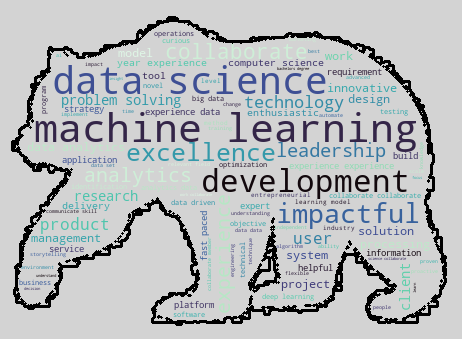
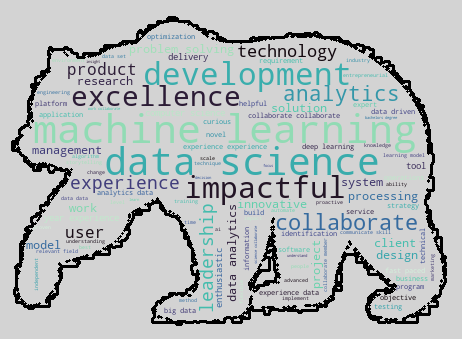
parsed subtopics down to mxnet

Changed region(s): [[0.0303, 0.0885, 0.9394, 0.944]]

diff --git a/nlp_main.py b/nlp_main.py
@@ -4077,17 +4077,18 @@ def nlp_skill_lists(additional_stopwords):
                         'bitbucket', 'cad', 'cassandra', 'centos', 'cli', 'cloudera', 'cognos', 'cosmos', 'cplex', 'cuda',
                         'd3js', 'databricks', 'datarobot', 'dataminr', 'delfi', 'docker', 'domo', 'excel', 'fastapi',
                         'fivetran', 'flume', 'fortify', 'git', 'ide', 'ivr', 'jenkins', 'jira', 'jquery', 'jupyter',
-                        'knime', 'kubeflow', 'kubernetes', 'linux', 'looker', 'kibana', 'mathematica', 'matlab', 'mlflow',]
+                        'knime', 'kubeflow', 'kubernetes', 'linux', 'looker', 'kibana', 'mathematica', 'matlab', 'mlflow',
+                        'mongodb',]
     
-    subtopic_math_models = ['algebra', 'linear algebra', 'anova', 'algorithm', 'bandit', 'arima', 'bayes', 'calculus',
-                            'carlo', 'classifiction', 'clustering', 'correlation', 'crf', 'differential', 'dsp',
+    subtopic_math_models = ['algebra', 'linear algebra', 'anova', 'algorithm', 'multiarmed', 'bandit', 'arima', 'bayes', 'calculus',
+                            'monte', 'carlo', 'classifiction', 'clustering', 'correlation', 'crf', 'differential', 'dsp',
                             'ensemble', 'forest', 'gaussian', 'gbm', 'gradient', 'identification', 'imputation',
                             'inference', 'inferential', 'kmeans', 'knn', 'likelihood', 'linear', 'localization',
-                            'logic', 'logistic', 'loss', 'markov', 'mathematics', 'matrix', 'maximum',] # will need to figure out monograms/bigrams
+                            'logic', 'logistic', 'loss', 'markov', 'mathematics', 'matrix', 'maximum', 'multivariate',] # will need to figure out monograms/bigrams
     
     subtopic_nlp = ['asr', 'spacy', 'gensim', 'nltk', 'nlp', 'corenlp', 'corpus', 'gpt', 'lda',]
     
-    subtopic_deep_learning = ['autoencoder', 'automl', 'caffe', 'convolutional', 'ensemble', 'gan', 'lightgbm', 'lstm']
+    subtopic_deep_learning = ['autoencoder', 'automl', 'caffe', 'convolutional', 'ensemble', 'gan', 'lightgbm', 'lstm', 'mxnet',]
     
     subtopic_viz = ['power bi', 'tableau', 'dashboard', 'seaborn', 'matplotlib', 'domo', 'interactive', 'kibana', 'looker',]
     
@@ -4409,7 +4410,7 @@ def nlp_skill_lists(additional_stopwords):
                          'metric',
                          'microservice',
                          'microsoft',
-                         'mlflow',            # !!!###  
+                         'mlflow',
                          'mllib',
                          'model',
                          'mongodb',
@@ -4418,7 +4419,7 @@ def nlp_skill_lists(additional_stopwords):
                          'multiarmed',
                          'multivariate',
                          'municipal',
-                         'mxnet',
+                         'mxnet',               # !!!###  
                          'mssql',
                          'mysql',
                          'naive', 
